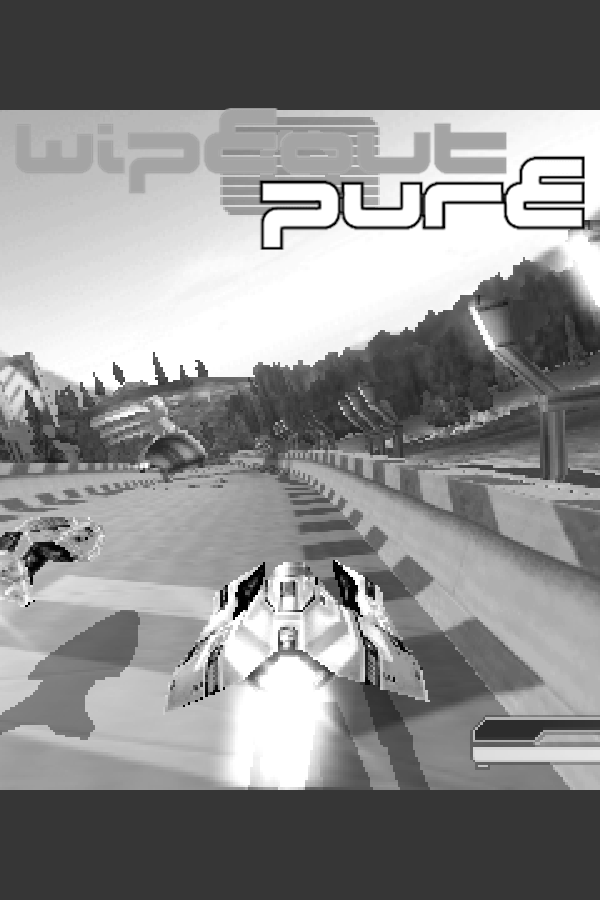
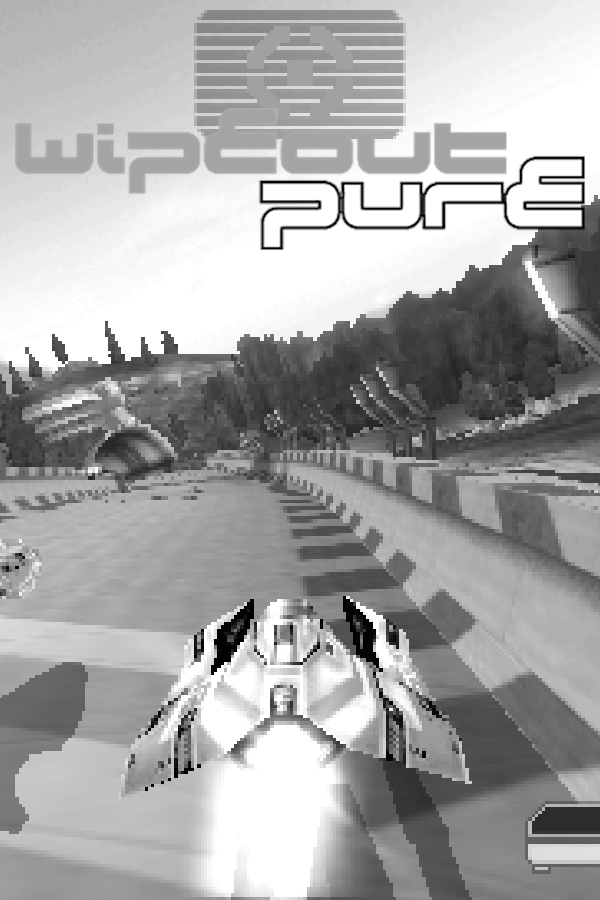
Update examples

diff --git a/examples/Wipeout Pure (USA).md b/examples/Wipeout Pure (USA).md
@@ -12,7 +12,7 @@
 |-------|-------|-------|-------|
 |<IMG src="steam_cover_border_gradient/Wipeout Pure (USA).png" width="150" height="225" />|<IMG src="steam_cover_border_gradient_grayscale/Wipeout Pure (USA).png" width="150" height="225" />|<IMG src="steam_cover_border_gradient_greengameboy/Wipeout Pure (USA).png" width="150" height="225" />|<IMG src="steam_cover_border_gradient_sepia/Wipeout Pure (USA).png" width="150" height="225" />|
 
-| steam_cover_zoomed | steam_cover_zoomed_grayscale | steam_cover_zoomed_greengameboy | steam_cover_zoomed_sepia |
+| steam cover zoomed | steam cover zoomed grayscale | steam cover zoomed greengameboy | steam cover zoomed sepia |
 |-------|-------|-------|-------|
 |<IMG src="steam_cover_zoomed/Wipeout Pure (USA).png" width="150" height="225" />|<IMG src="steam_cover_zoomed_grayscale/Wipeout Pure (USA).png" width="150" height="225" />|<IMG src="steam_cover_zoomed_greengameboy/Wipeout Pure (USA).png" width="150" height="225" />|<IMG src="steam_cover_zoomed_sepia/Wipeout Pure (USA).png" width="150" height="225" />|
 
@@ -39,3 +39,7 @@
 | steam grid zoom sepia logo |
 |-------|
 |<IMG src="steam_grid_zoom_sepia_logo/Wipeout Pure (USA).png" width="225"/>|
+
+| steam Hero |
+|-------|
+|<IMG src="heroes/Wipeout Pure (USA).png" width="600"/>|
